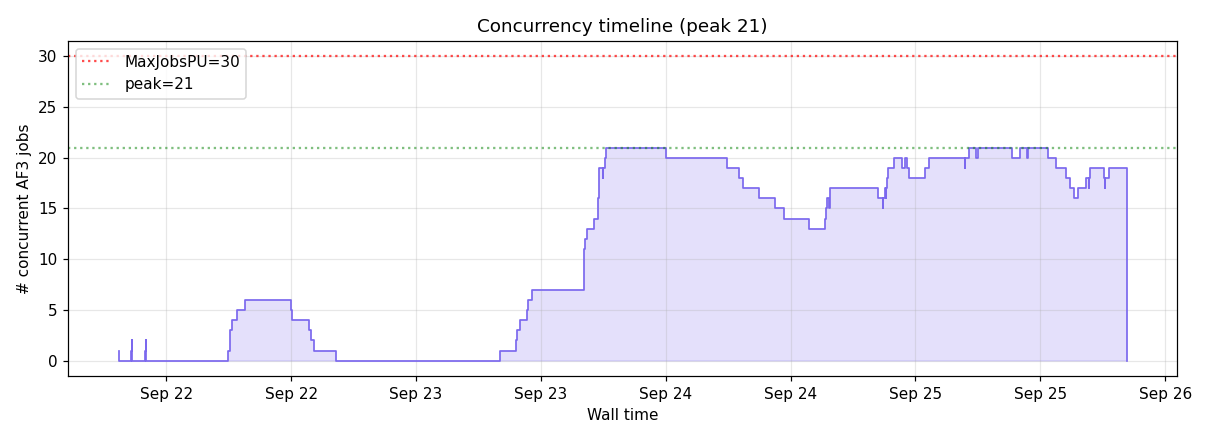
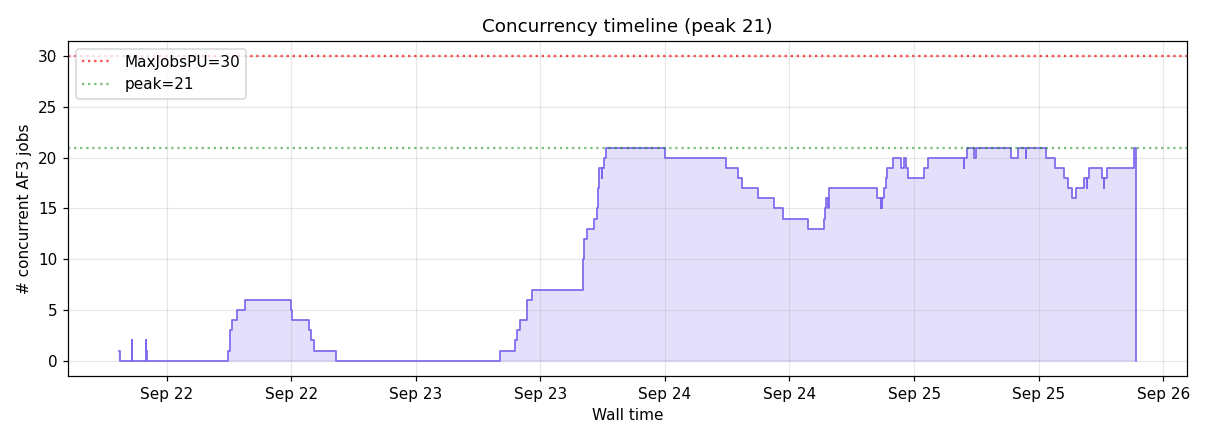
auto: 2026-09-25 21:20:17

diff --git a/index.html b/index.html
@@ -24,29 +24,29 @@ tr:nth-child(even) { background: #fafafa; }
 </style>
 </head><body>
 <h1>AF3 Campaign Dashboard</h1>
-<p class="stamp">Last updated: <strong>2026-09-25 20:19 EDT</strong> · regenerated on the cluster hourly · this page auto-reloads every 30 min</p>
+<p class="stamp">Last updated: <strong>2026-09-25 21:20 EDT</strong> · regenerated on the cluster hourly · this page auto-reloads every 30 min</p>
 
 <div class="cards">
-  <div class="card"><div class="v">1,918</div><div class="l">Total COMPLETED pairs</div></div>
-  <div class="card"><div class="v">837</div><div class="l">Done today</div></div>
-  <div class="card"><div class="v">926</div><div class="l">Last 24 h rate</div></div>
-  <div class="card"><div class="v">19 / 26</div><div class="l">Running / Pending now</div></div>
+  <div class="card"><div class="v">1,944</div><div class="l">Total COMPLETED pairs</div></div>
+  <div class="card"><div class="v">863</div><div class="l">Done today</div></div>
+  <div class="card"><div class="v">924</div><div class="l">Last 24 h rate</div></div>
+  <div class="card"><div class="v">22 / 76</div><div class="l">Running / Pending now</div></div>
 </div>
 
 <h2>Live queue</h2>
 <div class="plots">
   <div>
-    <h3>RUNNING (19)</h3>
+    <h3>RUNNING (22)</h3>
     <div class="queue-table">
       <table><thead><tr><th>Job</th><th>Elapsed</th><th>Left</th><th>Reason / Node</th></tr></thead>
-      <tbody><tr><td>af3_p061_b002</td><td>14:19:37</td><td>1-09:40:23</td><td>alphagpu51</td></tr><tr><td>af3_p061_b001</td><td>15:13:02</td><td>1-08:46:58</td><td>alphagpu53</td></tr><tr><td>af3_p060_b002</td><td>15:32:45</td><td>1-08:27:15</td><td>alphagpu51</td></tr><tr><td>af3_p060_b001</td><td>19:01:35</td><td>1-04:58:25</td><td>alphagpu53</td></tr><tr><td>af3_p059_b001</td><td>21:20:15</td><td>1-02:39:45</td><td>alphagpu52</td></tr><tr><td>af3_p058_b001</td><td>22:58:11</td><td>1-01:01:49</td><td>alphagpu53</td></tr><tr><td>af3_p057_b001</td><td>23:11:02</td><td>1-00:48:58</td><td>alphagpu53</td></tr><tr><td>af3_p056_b001</td><td>23:25:43</td><td>1-00:34:17</td><td>alphagpu53</td></tr><tr><td>af3_p055_b001</td><td>1-04:31:41</td><td>19:28:19</td><td>alphagpu52</td></tr><tr><td>af3_p054_b001</td><td>1-04:48:36</td><td>19:11:24</td><td>alphagpu52</td></tr><tr><td>af3_p053_b001</td><td>1-04:58:19</td><td>19:01:41</td><td>alphagpu53</td></tr><tr><td>af3_p065_b002</td><td>1:45:14</td><td>1-22:14:46</td><td>alphagpu54</td></tr><tr><td>af3_p065_b001</td><td>2:03:47</td><td>1-21:56:13</td><td>alphagpu52</td></tr><tr><td>af3_p064_b002</td><td>3:31:02</td><td>1-20:28:58</td><td>alphagpu53</td></tr><tr><td>af3_p064_b001</td><td>3:40:40</td><td>1-20:19:20</td><td>alphagpu54</td></tr><tr><td>af3_p063_b002</td><td>3:55:53</td><td>1-20:04:07</td><td>alphagpu51</td></tr><tr><td>af3_p063_b001</td><td>4:45:04</td><td>1-19:14:56</td><td>alphagpu51</td></tr><tr><td>af3_p062_b002</td><td>9:33:00</td><td>1-14:27:00</td><td>alphagpu51</td></tr><tr><td>af3_p062_b001</td><td>10:16:31</td><td>1-13:43:29</td><td>alphagpu54</td></tr></tbody></table>
+      <tbody><tr><td>af3_p083_b002</td><td>6:47</td><td>23:53:13</td><td>alphagpu52</td></tr><tr><td>af3_p083_b001</td><td>8:50</td><td>23:51:10</td><td>alphagpu53</td></tr><tr><td>af3_p061_b002</td><td>15:20:10</td><td>1-08:39:50</td><td>alphagpu51</td></tr><tr><td>af3_p061_b001</td><td>16:13:35</td><td>1-07:46:25</td><td>alphagpu53</td></tr><tr><td>af3_p060_b002</td><td>16:33:18</td><td>1-07:26:42</td><td>alphagpu51</td></tr><tr><td>af3_p060_b001</td><td>20:02:08</td><td>1-03:57:52</td><td>alphagpu53</td></tr><tr><td>af3_p059_b001</td><td>22:20:48</td><td>1-01:39:12</td><td>alphagpu52</td></tr><tr><td>af3_p058_b001</td><td>23:58:44</td><td>1-00:01:16</td><td>alphagpu53</td></tr><tr><td>af3_p057_b001</td><td>1-00:11:35</td><td>23:48:25</td><td>alphagpu53</td></tr><tr><td>af3_p056_b001</td><td>1-00:26:16</td><td>23:33:44</td><td>alphagpu53</td></tr><tr><td>af3_p055_b001</td><td>1-05:32:14</td><td>18:27:46</td><td>alphagpu52</td></tr><tr><td>af3_p054_b001</td><td>1-05:49:09</td><td>18:10:51</td><td>alphagpu52</td></tr><tr><td>af3_p053_b001</td><td>1-05:58:52</td><td>18:01:08</td><td>alphagpu53</td></tr><tr><td>af3_p065_b002</td><td>2:45:47</td><td>1-21:14:13</td><td>alphagpu54</td></tr><tr><td>af3_p065_b001</td><td>3:04:20</td><td>1-20:55:40</td><td>alphagpu52</td></tr><tr><td>af3_p064_b002</td><td>4:31:35</td><td>1-19:28:25</td><td>alphagpu53</td></tr><tr><td>af3_p064_b001</td><td>4:41:13</td><td>1-19:18:47</td><td>alphagpu54</td></tr><tr><td>af3_p063_b002</td><td>4:56:26</td><td>1-19:03:34</td><td>alphagpu51</td></tr><tr><td>af3_p063_b001</td><td>5:45:37</td><td>1-18:14:23</td><td>alphagpu51</td></tr><tr><td>af3_p062_b002</td><td>10:33:33</td><td>1-13:26:27</td><td>alphagpu51</td></tr><tr><td>af3_p062_b001</td><td>11:17:04</td><td>1-12:42:56</td><td>alphagpu54</td></tr><tr><td>af3_retro_score</td><td>58:50</td><td>11:01:10</td><td>betagg53</td></tr></tbody></table>
     </div>
   </div>
   <div>
-    <h3>PENDING (26)</h3>
+    <h3>PENDING (76)</h3>
     <div class="queue-table">
       <table><thead><tr><th>Job</th><th>Wait</th><th>Limit</th><th>Reason</th></tr></thead>
-      <tbody><tr><td>af3_p070_b002</td><td>0:00</td><td>2-00:00:00</td><td>(Priority)</td></tr><tr><td>af3_p070_b001</td><td>0:00</td><td>2-00:00:00</td><td>(Priority)</td></tr><tr><td>af3_p069_b002</td><td>0:00</td><td>2-00:00:00</td><td>(Priority)</td></tr><tr><td>af3_p069_b001</td><td>0:00</td><td>2-00:00:00</td><td>(Priority)</td></tr><tr><td>af3_p068_b002</td><td>0:00</td><td>2-00:00:00</td><td>(Priority)</td></tr><tr><td>af3_p068_b001</td><td>0:00</td><td>2-00:00:00</td><td>(Priority)</td></tr><tr><td>af3_p067_b002</td><td>0:00</td><td>2-00:00:00</td><td>(Priority)</td></tr><tr><td>af3_p067_b001</td><td>0:00</td><td>2-00:00:00</td><td>(Priority)</td></tr><tr><td>af3_p066_b002</td><td>0:00</td><td>2-00:00:00</td><td>(Priority)</td></tr><tr><td>af3_p066_b001</td><td>0:00</td><td>2-00:00:00</td><td>(Priority)</td></tr><tr><td>af3_p078_b002</td><td>0:00</td><td>2-00:00:00</td><td>(Priority)</td></tr><tr><td>af3_p078_b001</td><td>0:00</td><td>2-00:00:00</td><td>(Priority)</td></tr><tr><td>af3_p077_b002</td><td>0:00</td><td>2-00:00:00</td><td>(Priority)</td></tr><tr><td>af3_p077_b001</td><td>0:00</td><td>2-00:00:00</td><td>(Priority)</td></tr><tr><td>af3_p076_b002</td><td>0:00</td><td>2-00:00:00</td><td>(Priority)</td></tr><tr><td>af3_p076_b001</td><td>0:00</td><td>2-00:00:00</td><td>(Priority)</td></tr><tr><td>af3_p075_b002</td><td>0:00</td><td>2-00:00:00</td><td>(Priority)</td></tr><tr><td>af3_p075_b001</td><td>0:00</td><td>2-00:00:00</td><td>(Priority)</td></tr><tr><td>af3_p074_b002</td><td>0:00</td><td>2-00:00:00</td><td>(Priority)</td></tr><tr><td>af3_p074_b001</td><td>0:00</td><td>2-00:00:00</td><td>(Priority)</td></tr><tr><td>af3_p073_b002</td><td>0:00</td><td>2-00:00:00</td><td>(Priority)</td></tr><tr><td>af3_p073_b001</td><td>0:00</td><td>2-00:00:00</td><td>(Priority)</td></tr><tr><td>af3_p072_b002</td><td>0:00</td><td>2-00:00:00</td><td>(Priority)</td></tr><tr><td>af3_p072_b001</td><td>0:00</td><td>2-00:00:00</td><td>(Priority)</td></tr><tr><td>af3_p071_b002</td><td>0:00</td><td>2-00:00:00</td><td>(Priority)</td></tr><tr><td>af3_p071_b001</td><td>0:00</td><td>2-00:00:00</td><td>(Priority)</td></tr></tbody></table>
+      <tbody><tr><td>af3_p083_b003</td><td>0:00</td><td>1-00:00:00</td><td>(Priority)</td></tr><tr><td>af3_p090_b003</td><td>0:00</td><td>1-00:00:00</td><td>(Priority)</td></tr><tr><td>af3_p090_b002</td><td>0:00</td><td>1-00:00:00</td><td>(Priority)</td></tr><tr><td>af3_p090_b001</td><td>0:00</td><td>1-00:00:00</td><td>(Priority)</td></tr><tr><td>af3_p085_b003</td><td>0:00</td><td>1-00:00:00</td><td>(Priority)</td></tr><tr><td>af3_p085_b002</td><td>0:00</td><td>1-00:00:00</td><td>(Priority)</td></tr><tr><td>af3_p085_b001</td><td>0:00</td><td>1-00:00:00</td><td>(Priority)</td></tr><tr><td>af3_p092_b003</td><td>0:00</td><td>1-00:00:00</td><td>(Priority)</td></tr><tr><td>af3_p092_b002</td><td>0:00</td><td>1-00:00:00</td><td>(Priority)</td></tr><tr><td>af3_p092_b001</td><td>0:00</td><td>1-00:00:00</td><td>(Priority)</td></tr><tr><td>af3_p091_b003</td><td>0:00</td><td>1-00:00:00</td><td>(Priority)</td></tr><tr><td>af3_p091_b002</td><td>0:00</td><td>1-00:00:00</td><td>(Priority)</td></tr><tr><td>af3_p091_b001</td><td>0:00</td><td>1-00:00:00</td><td>(Priority)</td></tr><tr><td>af3_p094_b003</td><td>0:00</td><td>1-00:00:00</td><td>(Priority)</td></tr><tr><td>af3_p094_b002</td><td>0:00</td><td>1-00:00:00</td><td>(Priority)</td></tr><tr><td>af3_p094_b001</td><td>0:00</td><td>1-00:00:00</td><td>(Priority)</td></tr><tr><td>af3_p093_b003</td><td>0:00</td><td>1-00:00:00</td><td>(Priority)</td></tr><tr><td>af3_p093_b002</td><td>0:00</td><td>1-00:00:00</td><td>(Priority)</td></tr><tr><td>af3_p093_b001</td><td>0:00</td><td>1-00:00:00</td><td>(Priority)</td></tr><tr><td>af3_p096_b003</td><td>0:00</td><td>1-00:00:00</td><td>(Priority)</td></tr><tr><td>af3_p096_b002</td><td>0:00</td><td>1-00:00:00</td><td>(Priority)</td></tr><tr><td>af3_p096_b001</td><td>0:00</td><td>1-00:00:00</td><td>(Priority)</td></tr><tr><td>af3_p095_b003</td><td>0:00</td><td>1-00:00:00</td><td>(Priority)</td></tr><tr><td>af3_p095_b002</td><td>0:00</td><td>1-00:00:00</td><td>(Priority)</td></tr><tr><td>af3_p095_b001</td><td>0:00</td><td>1-00:00:00</td><td>(Priority)</td></tr><tr><td>af3_p097_b003</td><td>0:00</td><td>1-00:00:00</td><td>(Priority)</td></tr><tr><td>af3_p097_b002</td><td>0:00</td><td>1-00:00:00</td><td>(Priority)</td></tr><tr><td>af3_p097_b001</td><td>0:00</td><td>1-00:00:00</td><td>(Priority)</td></tr><tr><td>af3_p098_b003</td><td>0:00</td><td>1-00:00:00</td><td>(Priority)</td></tr><tr><td>af3_p098_b002</td><td>0:00</td><td>1-00:00:00</td><td>(Priority)</td></tr><tr><td>af3_p098_b001</td><td>0:00</td><td>1-00:00:00</td><td>(Priority)</td></tr><tr><td>af3_p100_b003</td><td>0:00</td><td>1-00:00:00</td><td>(Priority)</td></tr><tr><td>af3_p100_b002</td><td>0:00</td><td>1-00:00:00</td><td>(Priority)</td></tr><tr><td>af3_p100_b001</td><td>0:00</td><td>1-00:00:00</td><td>(Priority)</td></tr><tr><td>af3_p099_b003</td><td>0:00</td><td>1-00:00:00</td><td>(Priority)</td></tr><tr><td>af3_p099_b002</td><td>0:00</td><td>1-00:00:00</td><td>(Priority)</td></tr><tr><td>af3_p099_b001</td><td>0:00</td><td>1-00:00:00</td><td>(Priority)</td></tr><tr><td>af3_p102_b003</td><td>0:00</td><td>1-00:00:00</td><td>(Priority)</td></tr><tr><td>af3_p102_b002</td><td>0:00</td><td>1-00:00:00</td><td>(Priority)</td></tr><tr><td>af3_p102_b001</td><td>0:00</td><td>1-00:00:00</td><td>(Priority)</td></tr><tr><td>af3_p101_b003</td><td>0:00</td><td>1-00:00:00</td><td>(Priority)</td></tr><tr><td>af3_p101_b002</td><td>0:00</td><td>1-00:00:00</td><td>(Priority)</td></tr><tr><td>af3_p101_b001</td><td>0:00</td><td>1-00:00:00</td><td>(Priority)</td></tr><tr><td>af3_p103_b003</td><td>0:00</td><td>1-00:00:00</td><td>(Priority)</td></tr><tr><td>af3_p103_b002</td><td>0:00</td><td>1-00:00:00</td><td>(Priority)</td></tr><tr><td>af3_p103_b001</td><td>0:00</td><td>1-00:00:00</td><td>(Priority)</td></tr><tr><td>af3_p071_b002</td><td>0:00</td><td>2-00:00:00</td><td>(Priority)</td></tr><tr><td>af3_p071_b001</td><td>0:00</td><td>2-00:00:00</td><td>(Priority)</td></tr><tr><td>af3_p070_b002</td><td>0:00</td><td>2-00:00:00</td><td>(Priority)</td></tr><tr><td>af3_p070_b001</td><td>0:00</td><td>2-00:00:00</td><td>(Priority)</td></tr><tr><td>af3_p069_b002</td><td>0:00</td><td>2-00:00:00</td><td>(Priority)</td></tr><tr><td>af3_p069_b001</td><td>0:00</td><td>2-00:00:00</td><td>(Priority)</td></tr><tr><td>af3_p068_b002</td><td>0:00</td><td>2-00:00:00</td><td>(Priority)</td></tr><tr><td>af3_p068_b001</td><td>0:00</td><td>2-00:00:00</td><td>(Priority)</td></tr><tr><td>af3_p067_b002</td><td>0:00</td><td>2-00:00:00</td><td>(Priority)</td></tr><tr><td>af3_p067_b001</td><td>0:00</td><td>2-00:00:00</td><td>(Priority)</td></tr><tr><td>af3_p066_b002</td><td>0:00</td><td>2-00:00:00</td><td>(Priority)</td></tr><tr><td>af3_p066_b001</td><td>0:00</td><td>2-00:00:00</td><td>(Priority)</td></tr><tr><td>af3_p078_b002</td><td>0:00</td><td>2-00:00:00</td><td>(Priority)</td></tr><tr><td>af3_p078_b001</td><td>0:00</td><td>2-00:00:00</td><td>(Priority)</td></tr><tr><td>af3_p077_b002</td><td>0:00</td><td>2-00:00:00</td><td>(Priority)</td></tr><tr><td>af3_p077_b001</td><td>0:00</td><td>2-00:00:00</td><td>(Priority)</td></tr><tr><td>af3_p076_b002</td><td>0:00</td><td>2-00:00:00</td><td>(Priority)</td></tr><tr><td>af3_p076_b001</td><td>0:00</td><td>2-00:00:00</td><td>(Priority)</td></tr><tr><td>af3_p075_b002</td><td>0:00</td><td>2-00:00:00</td><td>(Priority)</td></tr><tr><td>af3_p075_b001</td><td>0:00</td><td>2-00:00:00</td><td>(Priority)</td></tr><tr><td>af3_p074_b002</td><td>0:00</td><td>2-00:00:00</td><td>(Priority)</td></tr><tr><td>af3_p074_b001</td><td>0:00</td><td>2-00:00:00</td><td>(Priority)</td></tr><tr><td>af3_p073_b002</td><td>0:00</td><td>2-00:00:00</td><td>(Priority)</td></tr><tr><td>af3_p073_b001</td><td>0:00</td><td>2-00:00:00</td><td>(Priority)</td></tr><tr><td>af3_p072_b002</td><td>0:00</td><td>2-00:00:00</td><td>(Priority)</td></tr><tr><td>af3_p072_b001</td><td>0:00</td><td>2-00:00:00</td><td>(Priority)</td></tr><tr><td>af3_p080_b002</td><td>0:00</td><td>2-00:00:00</td><td>(Priority)</td></tr><tr><td>af3_p080_b001</td><td>0:00</td><td>2-00:00:00</td><td>(Priority)</td></tr><tr><td>af3_p082_b002</td><td>0:00</td><td>2-00:00:00</td><td>(Priority)</td></tr><tr><td>af3_p082_b001</td><td>0:00</td><td>2-00:00:00</td><td>(Priority)</td></tr></tbody></table>
     </div>
   </div>
 </div>
@@ -62,7 +62,7 @@ tr:nth-child(even) { background: #fafafa; }
 </div>
 
 <h2>All-time job state breakdown</h2>
-<table><thead><tr><th>State</th><th>Count</th></tr></thead><tbody><tr><td>COMPLETED</td><td>35</td></tr><tr><td>PENDING</td><td>26</td></tr><tr><td>RUNNING</td><td>19</td></tr></tbody></table>
+<table><thead><tr><th>State</th><th>Count</th></tr></thead><tbody><tr><td>PENDING</td><td>76</td></tr><tr><td>COMPLETED</td><td>35</td></tr><tr><td>RUNNING</td><td>21</td></tr></tbody></table>
 
 <p class="stamp"><small>Generated by <code>generate.py</code> on the SUNY HPC cluster.
 Source / regeneration policy at <a href="https://github.com/matvei-lukianov/af3-dashboard">github.com/matvei-lukianov/af3-dashboard</a></small></p>
